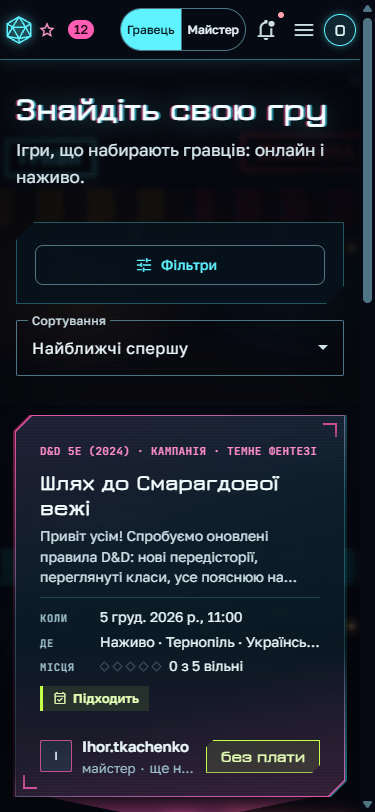
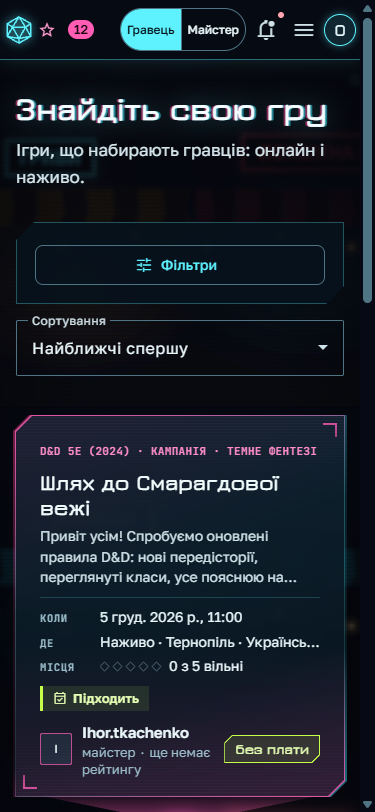
fix(frontend): holo market GM footer, card blur, rated GM tooltip
Compact price sign with visible cut-corner border, two-line GM role in
holo market; no backdrop blur on cards; the cyber GM role tooltip uses
one i18n key and also covers the rated line.

Changed region(s): [[0.2053, 0.8929, 0.5573, 0.9544], [0.5867, 0.8929, 0.8213, 0.9544], [0.1467, 0.8929, 0.176, 0.9544]]

diff --git a/frontend/src/app/theming/themes/holo-market/holo-market.less b/frontend/src/app/theming/themes/holo-market/holo-market.less
@@ -33,6 +33,15 @@
 
 @hm: ~":root[data-theme='holo-market']";
 
+// Діагональ зрізаного кута (1.5px) у квадраті 8×8 — від верхнього правого до нижнього лівого
+// кута квадрата (межа таблички там, де clip-path обрізає рамку); колір — --hm-sign.
+@hm-cut-edge: linear-gradient(
+  to bottom right,
+  transparent calc(50% - 0.75px),
+  var(--hm-sign) calc(50% - 0.75px) calc(50% + 0.75px),
+  transparent calc(50% + 0.75px)
+);
+
 // Контраст (WCAG, відносна яскравість). Поверхні: стіна #070914; ринок за нею притемнений
 // (сцена — 70% непрозорості, вуаль ≥ 38%): найсвітліше місце під текстом на стіні (розмита
 // бурштинова вивіска) ≈ #4A3A20. Голо-панель картки — скло rgba(9,26,38,.9) поверх
@@ -181,6 +190,8 @@
   }
 
   // ---- Шапка: напівпрозора смуга з ціановою лінією й світінням ----
+  // backdrop-filter робить .top контейнером для position: fixed нащадків шапки (у ній таких
+  // немає: меню й підказки — оверлеї CDK у <body>).
   .top.cy-bar {
     backdrop-filter: blur(10px);
     box-shadow: 0 0 18px rgba(94, 242, 255, 0.15);
@@ -279,6 +290,8 @@
   }
 
   // Рамка: градієнт кольору гри під панеллю (виступає на 1px) з червоно-ціановим зсувом.
+  // z-index 1 — під панеллю картки, бо спільна розкладка дає .panel z-index 2
+  // (cyber-game-card.less / cyber-my-game-item.less): міняти разом.
   // Фільтр — на хості рамки, контур — на псевдоелементі (інакше clip-path обрізав би тінь).
   .cy-frame {
     position: absolute;
@@ -500,20 +513,48 @@
     }
   }
 
-  // Ціна — бурштинова табличка зі зрізаними кутами, безкоштовна — лайм.
+  // Ціна — бурштинова табличка зі зрізаними кутами, безкоштовна — лайм. Компактна (підпис
+  // майстра поруч має лишатися читабельним); межа на зрізах — діагоналі фоном (clip-path
+  // обрізає саму рамку).
   nri-cy-game-card .price {
-    padding: 6px 14px;
-    border: 1px solid #ffbf4a;
+    --hm-sign: #ffbf4a;
+
+    padding: 5px 10px;
+    border: 1px solid var(--hm-sign);
     border-radius: 0;
-    background: rgba(255, 191, 74, 0.1);
+    background:
+      @hm-cut-edge top left / 8px 8px no-repeat border-box,
+      @hm-cut-edge bottom right / 8px 8px no-repeat border-box,
+      rgba(255, 191, 74, 0.1);
     color: #ffe1a6;
-    font: 700 1rem/1.2 var(--cy-font-display);
+    font: 700 0.875rem/1.2 var(--cy-font-display);
+    letter-spacing: 0;
     clip-path: polygon(8px 0, 100% 0, 100% calc(100% - 8px), calc(100% - 8px) 100%, 0 100%, 0 8px);
 
     &.free {
-      border-color: #c6ff4a;
-      background: rgba(198, 255, 74, 0.1);
+      --hm-sign: #c6ff4a;
+
+      background:
+        @hm-cut-edge top left / 8px 8px no-repeat border-box,
+        @hm-cut-edge bottom right / 8px 8px no-repeat border-box,
+        rgba(198, 255, 74, 0.1);
       color: #e5ffb5;
+    }
+  }
+
+  // Підпис майстра: роль («майстер · ★ 4,5» / «майстер · ще немає рейтингу») — до двох
+  // рядків з «…» (повний текст — у підказці), щоб не обрізатися поруч із ціною.
+  nri-cy-game-card .gm .role {
+    display: -webkit-box;
+    -webkit-box-orient: vertical;
+    -webkit-line-clamp: 2;
+    line-height: 1.3;
+    white-space: normal;
+
+    // «ще немає рейтингу» (nri-gm-rating) теж переноситься.
+    .none {
+      font-size: inherit;
+      white-space: normal;
     }
   }
 
@@ -611,9 +652,9 @@
     }
   }
 
-  // Широкий екран: скло ще й розмиває ринок позаду (на вузькому — лише щільне скло).
+  // Широкий екран: панель фільтрів ще й розмиває ринок позаду (на вузькому — лише щільне
+  // скло). Картки — без розмиття: їх багато, а фон за ними фіксований і мерехтить.
   @media (min-width: 600px) {
-    [data-neon] > .cy-glass,
     .nri-page.nri-board .nri-panel {
       backdrop-filter: blur(8px) brightness(0.6);
     }

diff --git a/frontend/src/app/theming/themes/cyber/game-card/cyber-game-card.spec.ts b/frontend/src/app/theming/themes/cyber/game-card/cyber-game-card.spec.ts
@@ -2,7 +2,9 @@ import { ComponentFixture, TestBed } from '@angular/core/testing';
 import { provideHttpClient } from '@angular/common/http';
 import { provideHttpClientTesting } from '@angular/common/http/testing';
 import { Router, provideRouter } from '@angular/router';
-import { provideTranslateService } from '@ngx-translate/core';
+import { TranslateService, provideTranslateService } from '@ngx-translate/core';
+import { By } from '@angular/platform-browser';
+import { MatTooltip } from '@angular/material/tooltip';
 import type { RestrictedGameDto, SearchGameCardDto } from '@nri/shared';
 import { CyberGameCard } from './cyber-game-card';
 import { browserZone } from '../../../../core/i18n/dates';
@@ -140,6 +142,27 @@ describe('CyberGameCard (slot «game-card»)', () => {
     await render(game);
     expect(el.querySelector('.gm-rating')).toBeNull();
     expect(el.querySelector('.gm .none')!.textContent).toContain('ratings.gmRating.none');
+  });
+
+  it('the GM role line tooltip is the full visible text, with or without a rating', async () => {
+    TestBed.inject(TranslateService).setTranslation('uk', {
+      cyber: {
+        gmRole: {
+          plain: 'майстер',
+          rated: 'майстер · ★ {{rating}}',
+          none: 'майстер · ще немає рейтингу',
+        },
+      },
+    });
+    TestBed.inject(TranslateService).use('uk');
+    const tip = () =>
+      fixture.debugElement.query(By.css('.gm .role')).injector.get(MatTooltip).message;
+    await render({ ...game, gmRating: 4.5 });
+    expect(tip()).toBe('майстер · ★ 4,5');
+    await render(game);
+    expect(tip()).toBe('майстер · ще немає рейтингу');
+    await render(restricted);
+    expect(tip()).toBe('майстер');
   });
 
   it('a blocked GM is labelled «Account blocked» on full and restricted cards', async () => {

diff --git a/frontend/src/app/theming/themes/cyber/gm-signature/cyber-gm-signature.ts b/frontend/src/app/theming/themes/cyber/gm-signature/cyber-gm-signature.ts
@@ -6,6 +6,7 @@ import { BlockedBadge } from '../../../../shared/blocked-badge/blocked-badge';
 import { GmRating } from '../../../../features/ratings/gm-rating/gm-rating';
 import type { GmSignatureSlot } from '../../../slots';
 import { TruncateTooltip } from '../../../../shared/truncate-tooltip/truncate-tooltip';
+import { formatRating } from '../../../../core/ratings/rating-format';
 
 /**
  * Слот `gm-signature` кібер-родини: темний кружок з першою літерою ніку в неоновому обідку
@@ -26,5 +27,16 @@ export class CyberGmSignature implements GmSignatureSlot {
   protected readonly initial = computed(() => {
     const nick = this.gm().nickname?.trim();
     return nick ? Array.from(nick)[0]!.toUpperCase() : '?';
+  });
+
+  /**
+   * Підказка рядка ролі — видимий текст повністю (один ключ uk.json з параметрами):
+   * «майстер · ★ 4,5», «майстер · ще немає рейтингу» або просто «майстер».
+   */
+  protected readonly roleTip = computed((): { key: string; params?: Record<string, string> } => {
+    const g = this.gm();
+    if (!g.showRating) return { key: 'cyber.gmRole.plain' };
+    if (g.rating === null) return { key: 'cyber.gmRole.none' };
+    return { key: 'cyber.gmRole.rated', params: { rating: formatRating(g.rating) } };
   });
 }

diff --git a/frontend/src/app/theming/themes/cyber/gm-signature/cyber-gm-signature.html b/frontend/src/app/theming/themes/cyber/gm-signature/cyber-gm-signature.html
@@ -18,15 +18,10 @@
         <nri-blocked-badge />
       }
     </span>
-    <!-- Один рядок з «…»: без рейтингу «майстер · ще немає рейтингу» на вузькій картці не
-         вміщається (повний текст — у підказці). -->
-    @let none = g.showRating && g.rating === null;
-    <small
-      class="role"
-      [nriTruncateTooltip]="
-        none ? ('cyber.gm' | translate) + ' · ' + ('ratings.gmRating.none' | translate) : ''
-      "
-    >
+    <!-- Рядок «майстер · ★ рейтинг» обрізається «…», коли не вміщається (у «Голо-ринку» —
+         до двох рядків); підказка — той самий текст повністю, з рейтингом і без. -->
+    @let tip = roleTip();
+    <small class="role" [nriTruncateTooltip]="tip.key | translate: tip.params">
       <span aria-hidden="true">{{ 'cyber.gm' | translate }}</span>
       @if (g.showRating) {
         <span aria-hidden="true">·</span>
